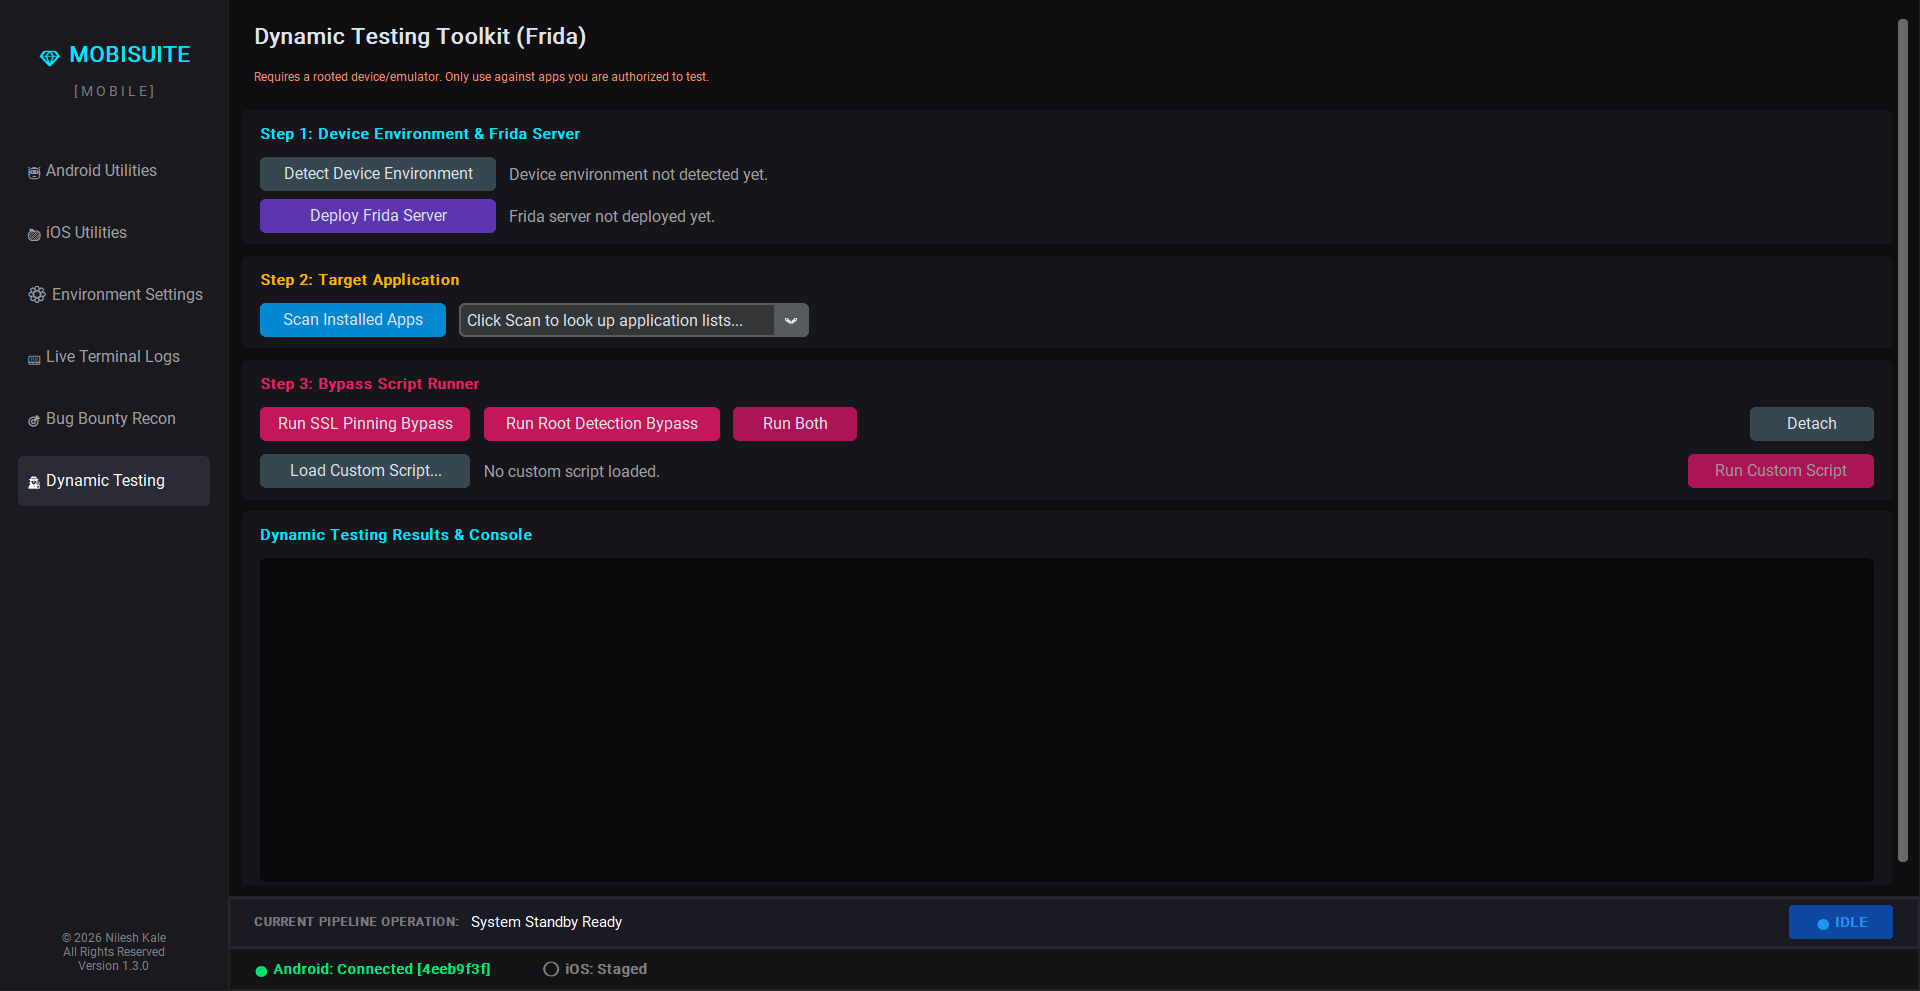
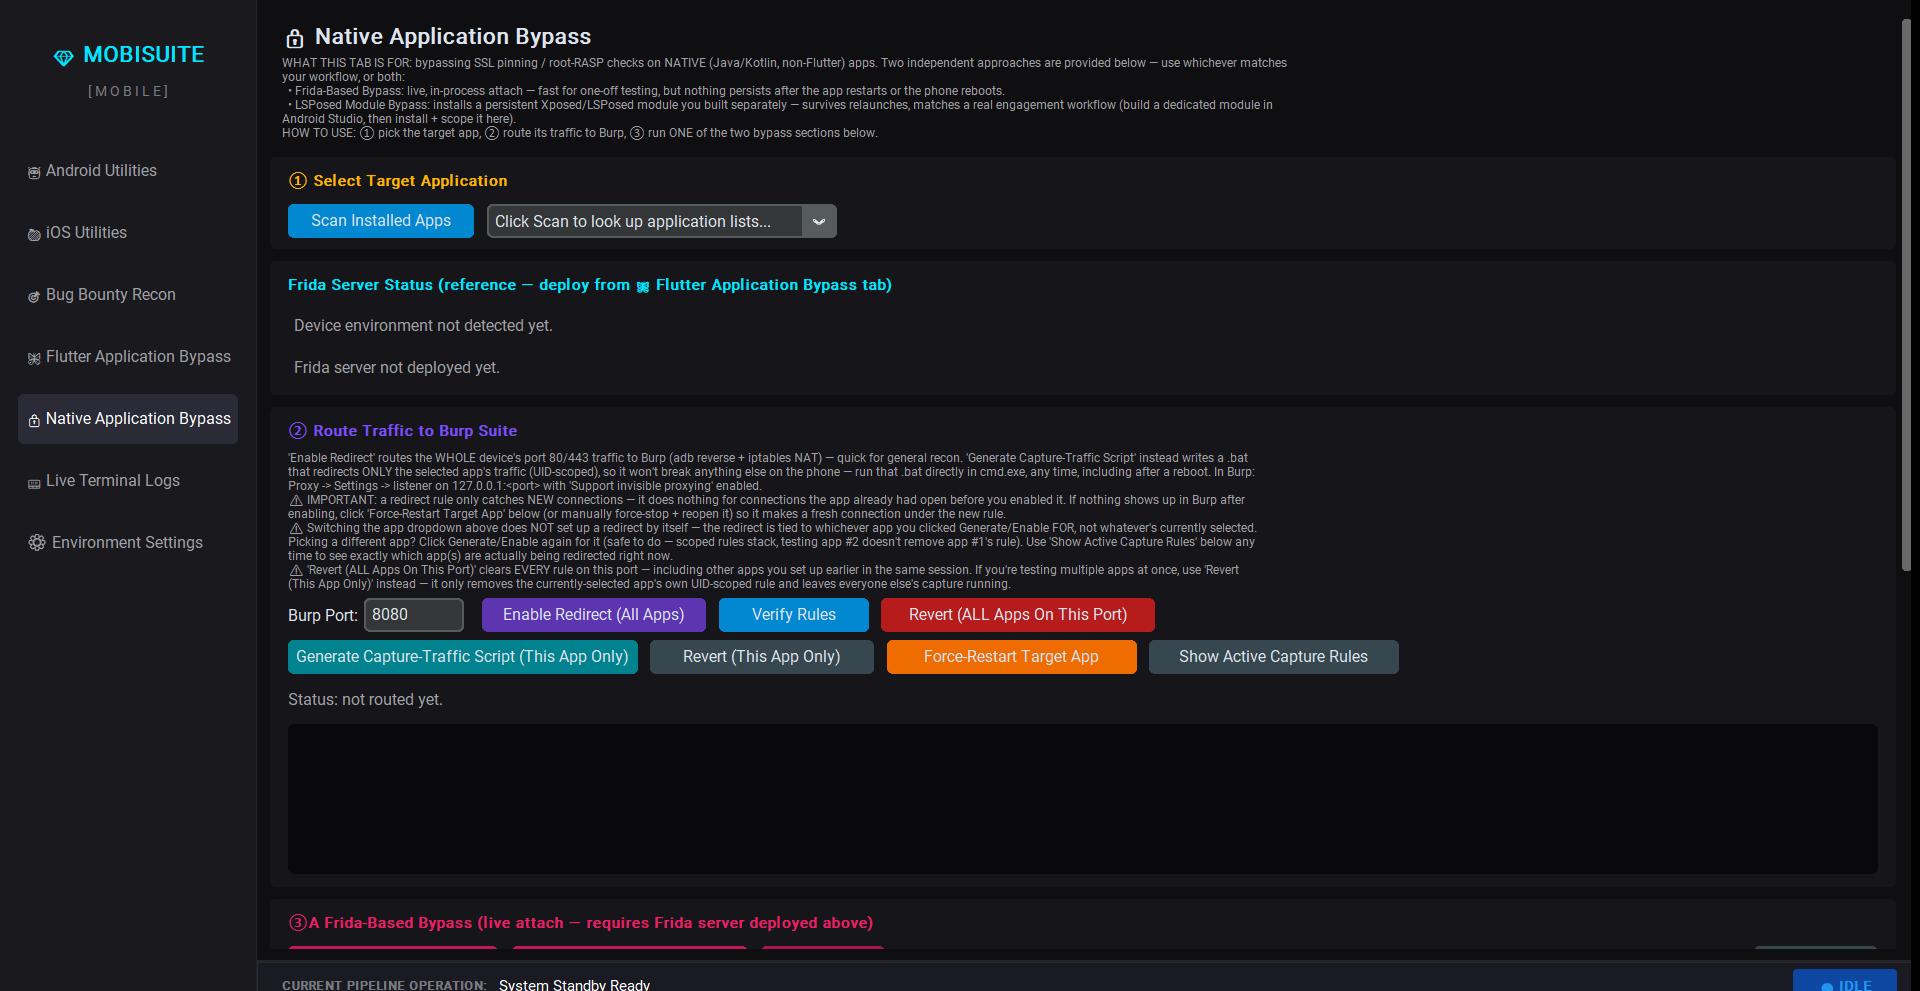
Add real screenshots for the Native and Flutter bypass tabs
Replaces the stale dynamic-testing screenshot with an actual capture
of the Native Application Bypass tab, and adds a new one for the
Flutter Application Bypass tab. Both captured live from the running
app in its idle state.

diff --git a/README.md b/README.md
@@ -10,15 +10,17 @@ MobiSuite is a cross-platform, multi-threaded GUI pipeline engine designed for m
 | :---: | :---: |
 | ![Android Utilities Deck](screenshots/01_android_deck.png) | ![iOS Utilities Deck](screenshots/02_ios_deck.png) |
 
-| Bug Bounty Recon (Static Analysis) | Native/Flutter Application Bypass (Frida) |
+| Bug Bounty Recon (Static Analysis) | Native Application Bypass (Frida + LSPosed) |
 | :---: | :---: |
 | ![Bug Bounty Recon Toolkit](screenshots/03_recon_deck.png) | ![Native Application Bypass Toolkit](screenshots/04_dynamic_deck.png) |
 
-| Environment Settings (Tool Inventory) | Live Terminal Logs |
+| Flutter Application Bypass (Auto Offset Detection) | Environment Settings (Tool Inventory) |
 | :---: | :---: |
-| ![Environment Settings Deck](screenshots/05_settings_deck.png) | ![Live Terminal Logs Deck](screenshots/06_console_deck.png) |
+| ![Flutter Application Bypass Toolkit](screenshots/07_flutter_bypass_deck.png) | ![Environment Settings Deck](screenshots/05_settings_deck.png) |
 
-> Screenshots reflect an earlier build. The dynamic-testing deck pictured has since been split into two dedicated tabs — 🦋 **Flutter Application Bypass** and 🔒 **Native Application Bypass** — which also added Burp traffic routing and a persistent LSPosed module workflow described below.
+| Live Terminal Logs |
+| :---: |
+| ![Live Terminal Logs Deck](screenshots/06_console_deck.png) |
 
 ---
 